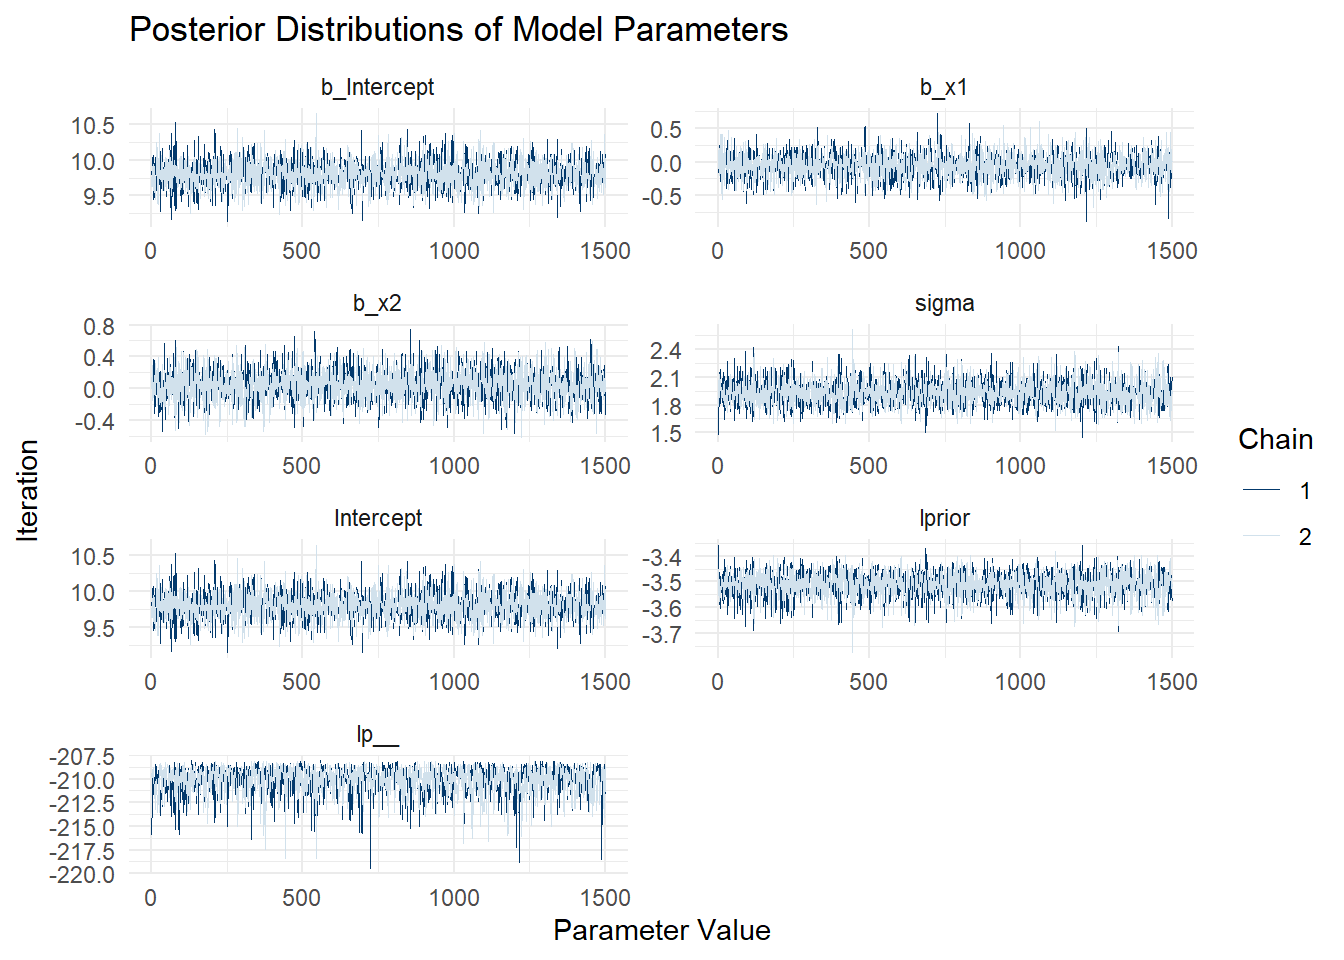
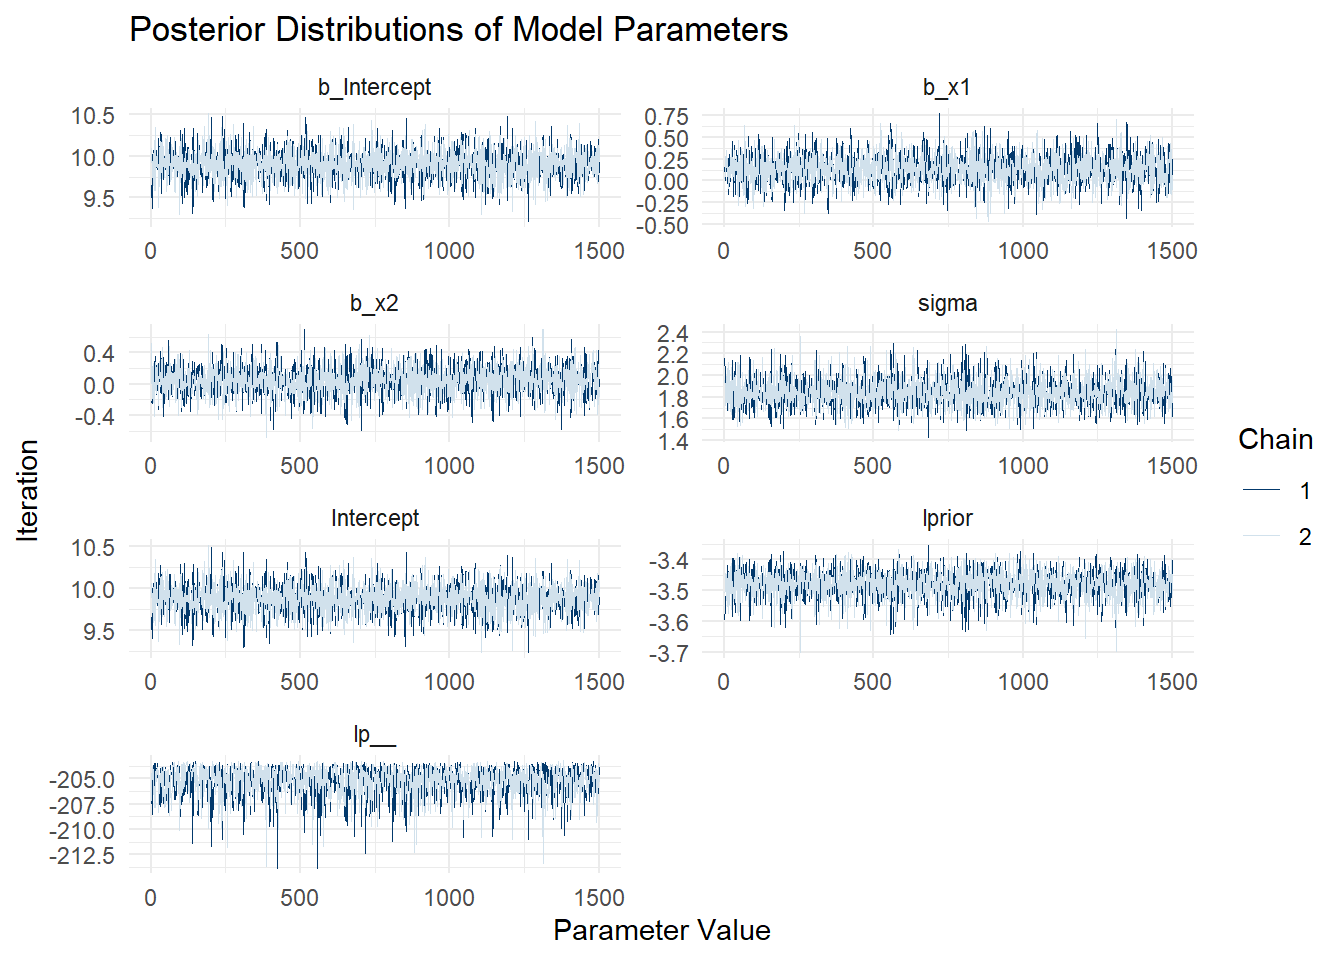
initial commit

diff --git a/_site/analysis.html b/_site/analysis.html
@@ -7,7 +7,7 @@
 <meta name="viewport" content="width=device-width, initial-scale=1.0, user-scalable=yes">
 
 
-<title>thing – Bayesian Linear Regression Analysis</title>
+<title>thing – Population Growth Analysis</title>
 <style>
 code{white-space: pre-wrap;}
 span.smallcaps{font-variant: small-caps;}
@@ -112,7 +112,7 @@ pre > code.sourceCode > span > a:first-child::before { text-decoration: underlin
       <div class="navbar-container container-fluid">
       <div class="navbar-brand-container mx-auto">
     <a class="navbar-brand" href="./index.html">
-    <span class="navbar-title">Bayesian Linear Regression Analysis</span>
+    <span class="navbar-title">Population Growth Analysis</span>
     </a>
   </div>
             <div id="quarto-search" class="" title="Search"></div>
@@ -130,7 +130,7 @@ pre > code.sourceCode > span > a:first-child::before { text-decoration: underlin
 <span class="menu-text">Analysis</span></a>
   </li>  
   <li class="nav-item">
-    <a class="nav-link" href="./about.qmd"> 
+    <a class="nav-link" href="./about.html"> 
 <span class="menu-text">About</span></a>
   </li>  
 </ul>
@@ -328,10 +328,10 @@ Start sampling</code></pre>
 </div>
 </div>
 <div class="cell-output cell-output-stdout">
-<pre><code>          Parameter    Estimate Est.Error       Q2.5      Q97.5
-Intercept Intercept  9.80238021 0.1991174  9.4150441 10.2047636
-x1               x1 -0.05931420 0.1891484 -0.4306041  0.3135791
-x2               x2  0.04252765 0.2050698 -0.3521443  0.4516974</code></pre>
+<pre><code>          Parameter   Estimate Est.Error       Q2.5      Q97.5
+Intercept Intercept 9.90249969 0.1826041  9.5403815 10.2486105
+x1               x1 0.13760297 0.1673300 -0.1855912  0.4659503
+x2               x2 0.05005833 0.1890040 -0.3280061  0.4170560</code></pre>
 </div>
 <div class="cell-output cell-output-stderr">
 <pre><code>Using 10 posterior draws for ppc type 'dens_overlay' by default.</code></pre>
@@ -350,6 +350,30 @@ x2               x2  0.04252765 0.2050698 -0.3521443  0.4516974</code></pre>
 </figure>
 </div>
 </div>
+</div>
+<div class="cell">
+<div class="sourceCode cell-code" id="cb13"><pre class="sourceCode r code-with-copy"><code class="sourceCode r"><span id="cb13-1"><a href="#cb13-1" aria-hidden="true" tabindex="-1"></a><span class="co"># Plotting Hispanic Population Growth</span></span>
+<span id="cb13-2"><a href="#cb13-2" aria-hidden="true" tabindex="-1"></a>hispanic_growth <span class="ot">&lt;-</span> <span class="fu">c</span>(<span class="fl">63.85</span>, <span class="fl">64.66</span>, <span class="fl">65.22</span>)</span>
+<span id="cb13-3"><a href="#cb13-3" aria-hidden="true" tabindex="-1"></a>years <span class="ot">&lt;-</span> <span class="fu">c</span>(<span class="dv">2021</span>, <span class="dv">2022</span>, <span class="dv">2023</span>)</span>
+<span id="cb13-4"><a href="#cb13-4" aria-hidden="true" tabindex="-1"></a><span class="fu">plot</span>(years, hispanic_growth, <span class="at">type=</span><span class="st">"o"</span>, <span class="at">col=</span><span class="st">"blue"</span>, <span class="at">xlab=</span><span class="st">"Year"</span>, <span class="at">ylab=</span><span class="st">"Population (in millions)"</span>, <span class="at">main=</span><span class="st">"Hispanic Population Growth"</span>)</span></code><button title="Copy to Clipboard" class="code-copy-button"><i class="bi"></i></button></pre></div>
+<div class="cell-output-display">
+<div>
+<figure class="figure">
+<p><img src="analysis_files/figure-html/unnamed-chunk-5-1.png" class="img-fluid figure-img" width="672"></p>
+</figure>
+</div>
+</div>
+<div class="sourceCode cell-code" id="cb14"><pre class="sourceCode r code-with-copy"><code class="sourceCode r"><span id="cb14-1"><a href="#cb14-1" aria-hidden="true" tabindex="-1"></a><span class="co"># Plotting Non-Hispanic Population Growth</span></span>
+<span id="cb14-2"><a href="#cb14-2" aria-hidden="true" tabindex="-1"></a>non_hispanic_growth <span class="ot">&lt;-</span> <span class="fu">c</span>(<span class="fl">268.13</span>, <span class="fl">269.24</span>, <span class="fl">269.73</span>)</span>
+<span id="cb14-3"><a href="#cb14-3" aria-hidden="true" tabindex="-1"></a><span class="fu">plot</span>(years, non_hispanic_growth, <span class="at">type=</span><span class="st">"o"</span>, <span class="at">col=</span><span class="st">"red"</span>, <span class="at">xlab=</span><span class="st">"Year"</span>, <span class="at">ylab=</span><span class="st">"Population (in millions)"</span>, <span class="at">main=</span><span class="st">"Non-Hispanic Population Growth"</span>)</span></code><button title="Copy to Clipboard" class="code-copy-button"><i class="bi"></i></button></pre></div>
+<div class="cell-output-display">
+<div>
+<figure class="figure">
+<p><img src="analysis_files/figure-html/unnamed-chunk-5-2.png" class="img-fluid figure-img" width="672"></p>
+</figure>
+</div>
+</div>
+<div class="sourceCode cell-code" id="cb15"><pre class="sourceCode r code-with-copy"><code class="sourceCode r"><span id="cb15-1"><a href="#cb15-1" aria-hidden="true" tabindex="-1"></a><span class="co"># Assuming brm_plot contains the BRM plot</span></span></code><button title="Copy to Clipboard" class="code-copy-button"><i class="bi"></i></button></pre></div>
 </div>
 
 

diff --git a/_site/about.html b/_site/about.html
@@ -6,8 +6,9 @@
 
 <meta name="viewport" content="width=device-width, initial-scale=1.0, user-scalable=yes">
 
+<meta name="author" content="Your Name">
 
-<title>Population Growth Analysis</title>
+<title>About – Population Growth Analysis</title>
 <style>
 code{white-space: pre-wrap;}
 span.smallcaps{font-variant: small-caps;}
@@ -88,7 +89,7 @@ ul.task-list li input[type="checkbox"] {
           <div class="collapse navbar-collapse" id="navbarCollapse">
             <ul class="navbar-nav navbar-nav-scroll ms-auto">
   <li class="nav-item">
-    <a class="nav-link active" href="./index.html" aria-current="page"> 
+    <a class="nav-link" href="./index.html"> 
 <span class="menu-text">Home</span></a>
   </li>  
   <li class="nav-item">
@@ -96,7 +97,7 @@ ul.task-list li input[type="checkbox"] {
 <span class="menu-text">Analysis</span></a>
   </li>  
   <li class="nav-item">
-    <a class="nav-link" href="./about.html"> 
+    <a class="nav-link active" href="./about.html" aria-current="page"> 
 <span class="menu-text">About</span></a>
   </li>  
 </ul>
@@ -115,7 +116,11 @@ ul.task-list li input[type="checkbox"] {
     <h2 id="toc-title">On this page</h2>
    
   <ul>
-  <li><a href="#introduction" id="toc-introduction" class="nav-link active" data-scroll-target="#introduction">Introduction</a></li>
+  <li><a href="#about" id="toc-about" class="nav-link active" data-scroll-target="#about">About</a>
+  <ul class="collapse">
+  <li><a href="#project-background" id="toc-project-background" class="nav-link" data-scroll-target="#project-background">Project Background</a></li>
+  <li><a href="#contact-information" id="toc-contact-information" class="nav-link" data-scroll-target="#contact-information">Contact Information</a></li>
+  </ul></li>
   </ul>
 </nav>
     </div>
@@ -124,13 +129,19 @@ ul.task-list li input[type="checkbox"] {
 
 <header id="title-block-header" class="quarto-title-block default">
 <div class="quarto-title">
-<h1 class="title">Population Growth Analysis</h1>
+<h1 class="title">About</h1>
 </div>
 
 
 
 <div class="quarto-title-meta">
 
+    <div>
+    <div class="quarto-title-meta-heading">Author</div>
+    <div class="quarto-title-meta-contents">
+             <p>Your Name </p>
+          </div>
+  </div>
     
   
     
@@ -141,27 +152,23 @@ ul.task-list li input[type="checkbox"] {
 </header>
 
 
-<section id="introduction" class="level1">
-<h1>Introduction</h1>
-<p>This project analyzes the differences in growth between the Hispanic and non-Hispanic populations based on the U.S. Census Bureau’s recent estimates.</p>
-<div class="cell">
-<div class="cell-output-display">
-<div>
-<figure class="figure">
-<p><img src="index_files/figure-html/unnamed-chunk-1-1.png" class="img-fluid figure-img" width="672"></p>
-</figure>
-</div>
-</div>
-<div class="cell-output-display">
-<div>
-<figure class="figure">
-<p><img src="index_files/figure-html/unnamed-chunk-1-2.png" class="img-fluid figure-img" width="672"></p>
-</figure>
-</div>
-</div>
-</div>
+<section id="about" class="level1">
+<h1>About</h1>
+<p>This website presents the results of a Bayesian linear regression analysis, created by Your Name.</p>
+<section id="project-background" class="level2">
+<h2 class="anchored" data-anchor-id="project-background">Project Background</h2>
+<p>My name is Sharav Joshi. I’m a high schooler in Lexington, MA, and I have a passion for data science.</p>
+</section>
+<section id="contact-information" class="level2">
+<h2 class="anchored" data-anchor-id="contact-information">Contact Information</h2>
+<ul>
+<li><strong>Email:</strong> sharav4joshi@gmail.com</li>
+</ul>
+<p>Github Repo: <a href="https://github.com/sharav12/ultra-project" class="uri">https://github.com/sharav12/ultra-project</a></p>
+<p>course homepage: <a href="https://bootcamp.davidkane.info" class="uri">https://bootcamp.davidkane.info</a></p>
 
 
+</section>
 </section>
 
 </main> <!-- /main -->
